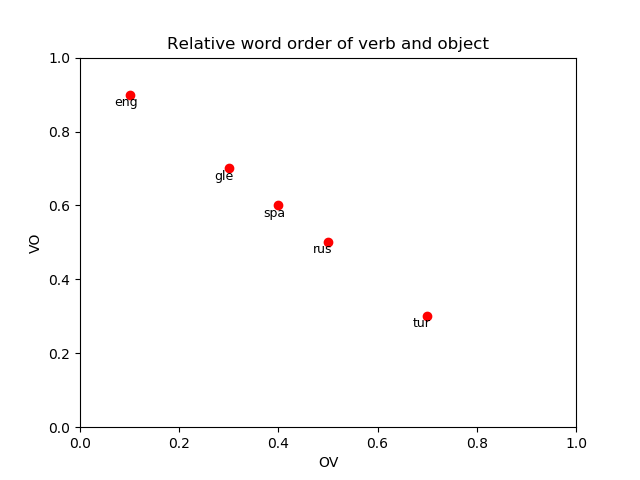
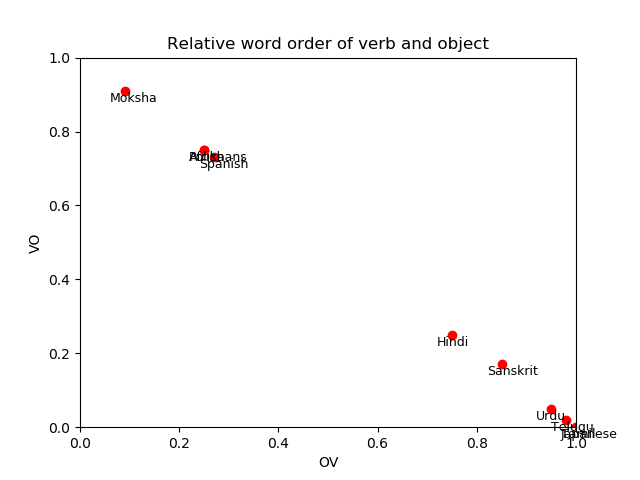
Plot

diff --git a/04_Parsing/plot.py b/04_Parsing/plot.py
@@ -1,9 +1,9 @@
 import sys
 import matplotlib.pyplot as plt
 
-labels = {0:'eng', 1:'rus', 2:'gle',3:'tur',4:'spa'}
-x = [0.1, 0.5, 0.3, 0.7, 0.4]  # proportion of OV
-y = [0.9, 0.5, 0.7, 0.3, 0.6]  # proportion of VO
+labels = {0:'Tamil', 1:'Hindi', 2:'Telugu',3:'Moksha',4:'Afrikaans',5:'Sanskrit',6:'Polish',7:'Spanish',8:'Urdu',9:'Japanese'}
+x = [1.00, 0.75, 0.98, 0.09, 0.25, 0.85, 0.25, 0.27, 0.95, 1.00]  # proportion of OV
+y = [0.00, 0.25, 0.02, 0.91, 0.75, 0.17, 0.75, 0.73, 0.05, 0.00]  # proportion of VO
 plt.plot(x, y, 'ro')
 plt.title('Relative word order of verb and object')
 plt.xlim([0,1]) # Set the x and y axis ranges

diff --git a/04_Parsing/word_order.py b/04_Parsing/word_order.py
@@ -1,0 +1,20 @@
+#!/usr/bin/env python3
+
+import sys
+
+ov = 0
+vo = 0
+
+with open(sys.argv[1], 'r', encoding='utf-8') as file:
+    for line in file:
+        if (not line.startswith("#")) and (line.strip()):
+            words = line.split()
+            if words[7] == 'obj':
+                verb = int(words[6])
+                if int(words[0]) > verb:
+                    vo+=1
+                else:
+                    ov+=1
+
+print(ov/(vo+ov))
+print(vo/(vo+ov))
